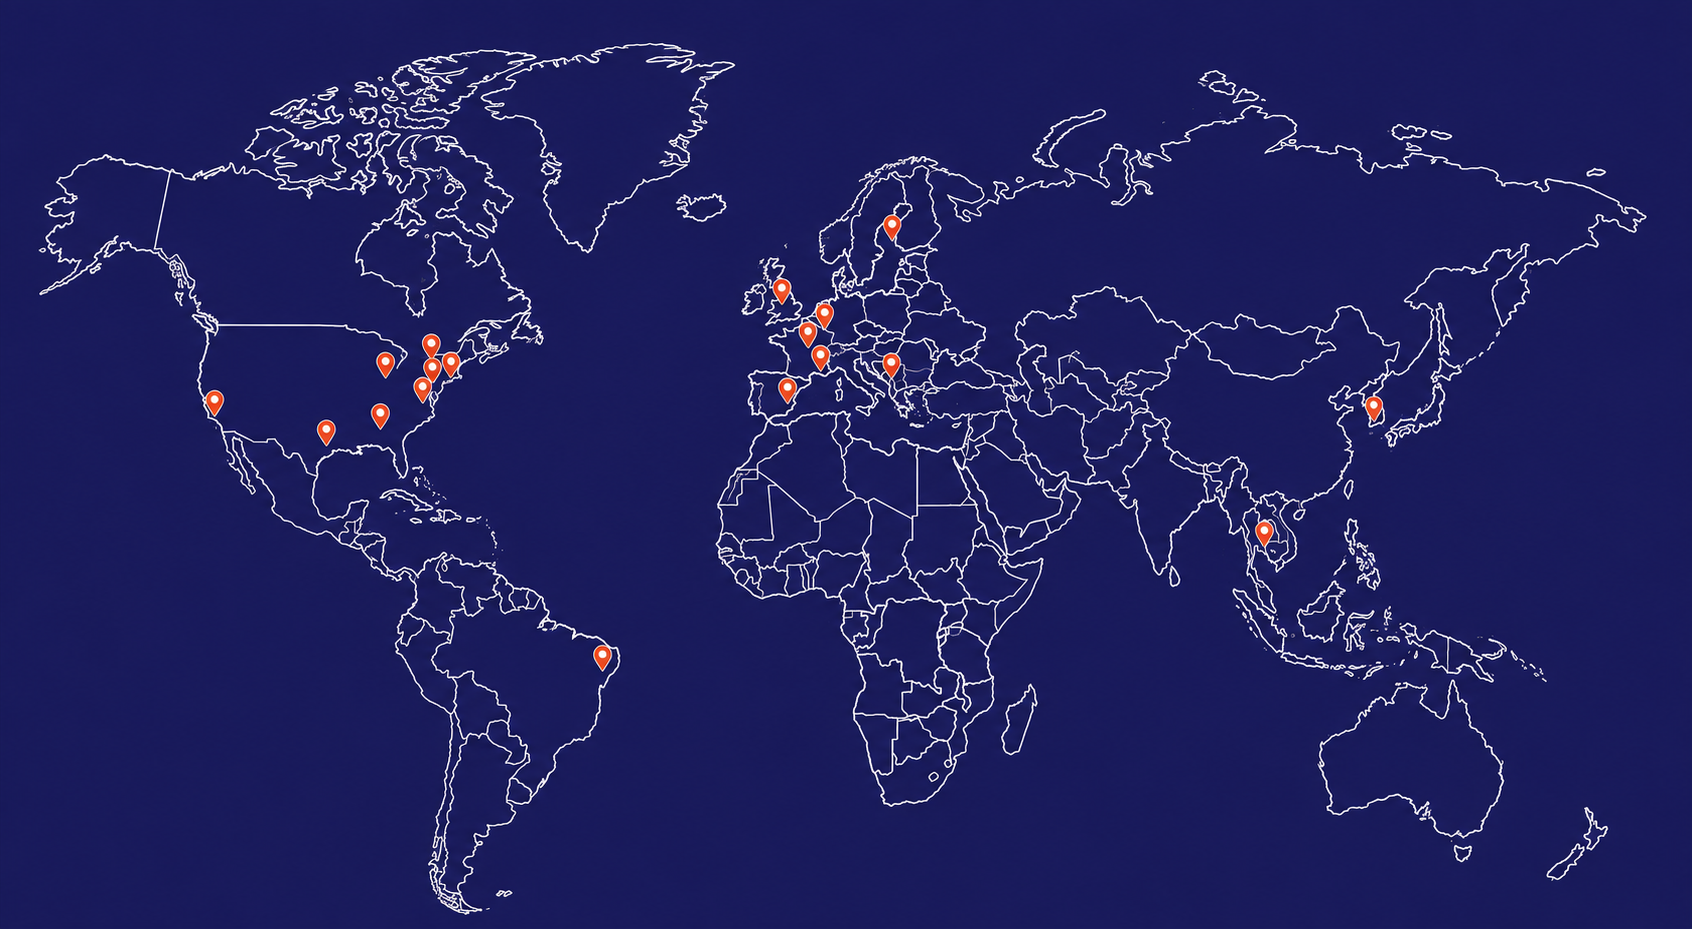
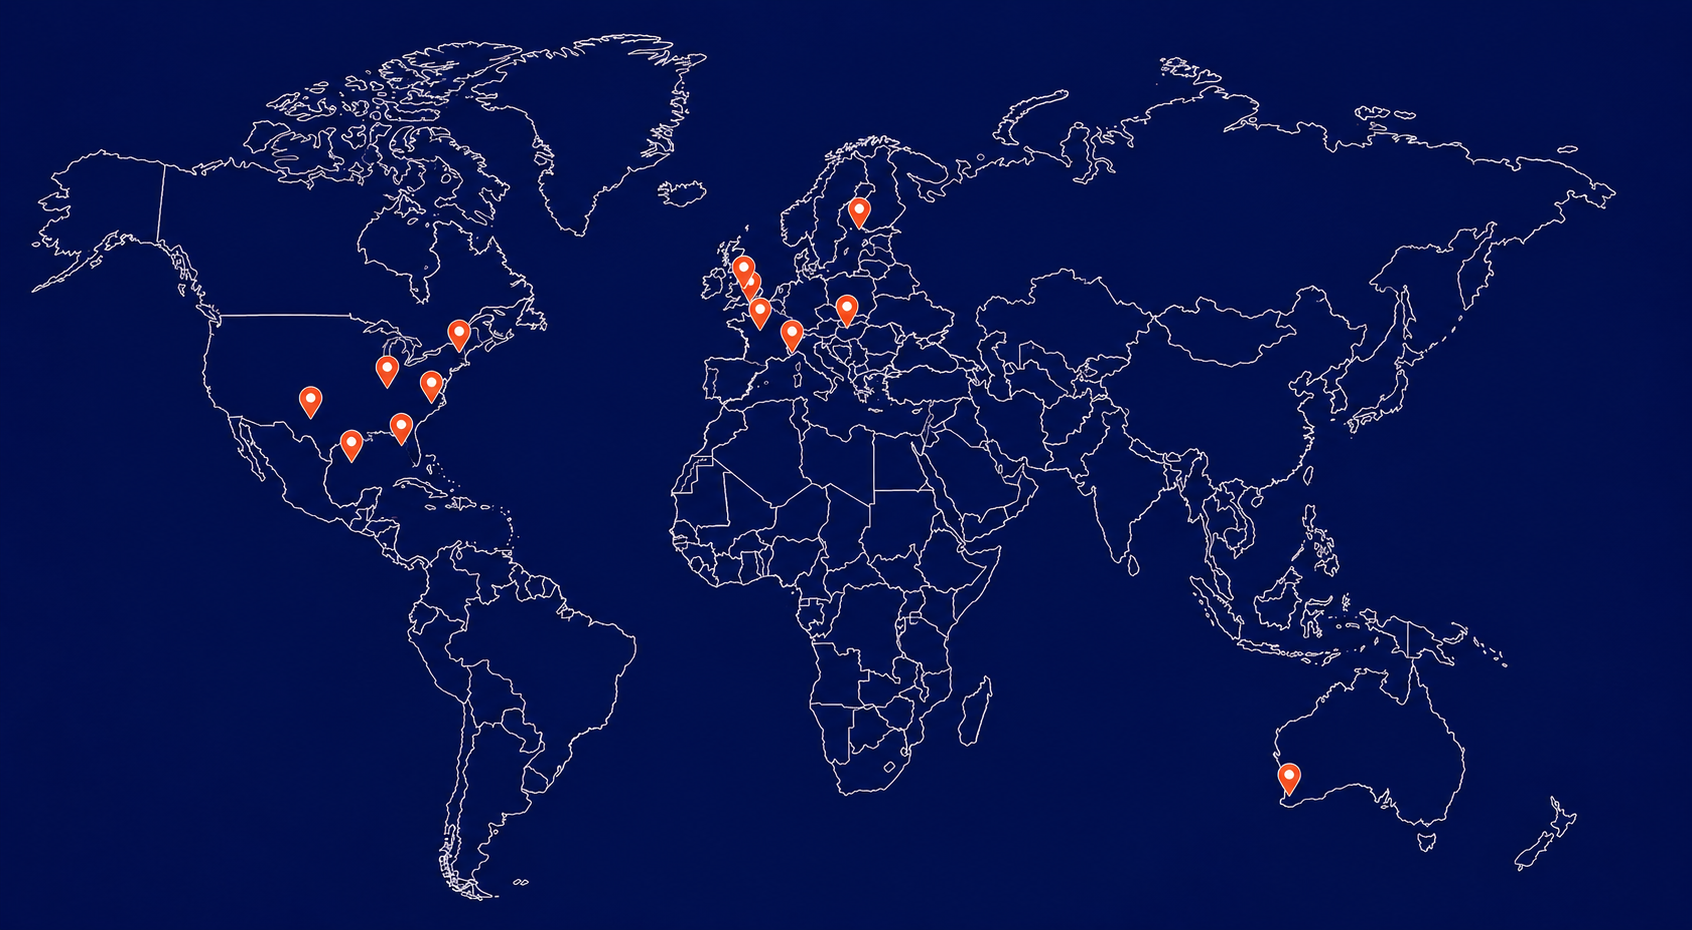
Fixed partners

diff --git a/partners.html b/partners.html
@@ -5,7 +5,7 @@
   <meta charset="UTF-8">
   <meta name="viewport" content="width=device-width, initial-scale=1.0">
   <title>Global Partner Institutions Directory | IIM Mumbai</title>
-  <meta name="description" content="Directory of 17+ international partner universities across North America, Europe, Asia, and South America collaborating with IIM Mumbai on academic mobility.">
+  <meta name="description" content="Directory of 13+ international partner universities across North America, Europe, and Australia collaborating with IIM Mumbai on academic mobility.">
   <meta name="keywords" content="IIM Mumbai Partner Universities, Global Academic Alliances, Bilateral Exchange Agreements, Triple Crown Business Schools">
   <link rel="icon" type="image/png" href="assets/favicon.png">
 
@@ -76,7 +76,7 @@
       <h1 class="page-hero-title">Partner Institutions</h1>
       <p class="page-hero-desc">
         IIM Mumbai maintains active academic partnerships and reciprocal student exchange agreements with prestigious
-        business schools and universities across Europe, North America, Asia, and Latin America.
+        business schools and universities across Europe, North America, and Australia.
       </p>
     </div>
   </section>
@@ -86,11 +86,11 @@
     <div class="container">
       <div class="partners-stats-grid">
         <div class="p-stat-box">
-          <span class="p-stat-num">17+</span>
+          <span class="p-stat-num">13+</span>
           <span class="p-stat-label">Global Partner Institutions</span>
         </div>
         <div class="p-stat-box">
-          <span class="p-stat-num">10+</span>
+          <span class="p-stat-num">7</span>
           <span class="p-stat-label">Countries Represented</span>
         </div>
         <div class="p-stat-box">
@@ -123,127 +123,13 @@
         <button class="region-pill-btn active" data-region="all">All regions</button>
         <button class="region-pill-btn" data-region="north-america">North America</button>
         <button class="region-pill-btn" data-region="europe">Europe</button>
-        <button class="region-pill-btn" data-region="asia">Asia</button>
-        <button class="region-pill-btn" data-region="south-america">South America</button>
+        <button class="region-pill-btn" data-region="australia">Australia</button>
       </div>
 
-      <!-- 4-Column Matrix Grid (Replace placeholder image src with your logo URLs) -->
+      <!-- 4-Column Matrix Grid -->
       <div class="partners-table-matrix" id="partnersMatrixGrid">
 
-        <!-- 01. University at Buffalo -->
-        <div class="matrix-cell" data-region="north-america">
-          <div class="cell-logo-wrap">
-            <img src="https://upload.wikimedia.org/wikipedia/commons/6/60/University_at_Buffalo_logo.png"
-              alt="University at Buffalo Logo" class="cell-partner-logo">
-          </div>
-          <div class="cell-country">UNITED STATES</div>
-          <div class="cell-university">University at Buffalo, New York</div>
-        </div>
-
-        <!-- 02. University of Pittsburgh -->
-        <div class="matrix-cell" data-region="north-america">
-          <div class="cell-logo-wrap">
-            <img
-              src="https://upload.wikimedia.org/wikipedia/en/thumb/f/fb/University_of_Pittsburgh_seal.svg/960px-University_of_Pittsburgh_seal.svg.png"
-              alt="University of Pittsburgh Logo" class="cell-partner-logo">
-          </div>
-          <div class="cell-country">UNITED STATES</div>
-          <div class="cell-university">University of Pittsburgh</div>
-        </div>
-
-        <!-- 03. University of Missouri -->
-        <div class="matrix-cell" data-region="north-america">
-          <div class="cell-logo-wrap">
-            <img src="https://upload.wikimedia.org/wikipedia/en/b/b8/University_of_Missouri_seal.svg"
-              alt="University of Missouri Logo" class="cell-partner-logo">
-          </div>
-          <div class="cell-country">UNITED STATES</div>
-          <div class="cell-university">University of Missouri – Columbia</div>
-        </div>
-
-        <!-- 04. University of California, Irvine -->
-        <div class="matrix-cell" data-region="north-america">
-          <div class="cell-logo-wrap">
-            <img src="https://upload.wikimedia.org/wikipedia/commons/8/8f/University_of_California%2C_Irvine_logo.svg"
-              alt="University of California, Irvine Logo" class="cell-partner-logo">
-          </div>
-          <div class="cell-country">UNITED STATES</div>
-          <div class="cell-university">University of California, Irvine</div>
-        </div>
-
-        <!-- 05. Oklahoma State University -->
-        <div class="matrix-cell" data-region="north-america">
-          <div class="cell-logo-wrap">
-            <img
-              src="https://upload.wikimedia.org/wikipedia/commons/thumb/0/01/Oklahoma_State_University_system_logo.svg/1280px-Oklahoma_State_University_system_logo.svg.png"
-              alt="Oklahoma State University Logo" class="cell-partner-logo">
-          </div>
-          <div class="cell-country">UNITED STATES</div>
-          <div class="cell-university">Oklahoma State University</div>
-        </div>
-
-        <!-- 06. Ohio University -->
-        <div class="matrix-cell" data-region="north-america">
-          <div class="cell-logo-wrap">
-            <img src="https://upload.wikimedia.org/wikipedia/commons/f/f2/Ohio_university_logo.png"
-              alt="Ohio University Logo" class="cell-partner-logo">
-          </div>
-          <div class="cell-country">UNITED STATES</div>
-          <div class="cell-university">Ohio University</div>
-        </div>
-
-        <!-- 07. West Virginia University -->
-        <div class="matrix-cell" data-region="north-america">
-          <div class="cell-logo-wrap">
-            <img
-              src="https://upload.wikimedia.org/wikipedia/commons/thumb/7/75/20150608194834%21West_Virginia_Mountaineers_logo.svg/250px-20150608194834%21West_Virginia_Mountaineers_logo.svg.png"
-              alt="West Virginia University Logo" class="cell-partner-logo">
-          </div>
-          <div class="cell-country">UNITED STATES</div>
-          <div class="cell-university">West Virginia University</div>
-        </div>
-
-        <!-- 08. University of Fortaleza -->
-        <div class="matrix-cell" data-region="south-america">
-          <div class="cell-logo-wrap">
-            <img src="https://d15ikrn2apvt7a.cloudfront.net/images/UNIFOR_Marca_RGB-01-Logo_2026-03-23-161122_yhdv.png"
-              alt="University of Fortaleza Logo" class="cell-partner-logo">
-          </div>
-          <div class="cell-country">BRAZIL</div>
-          <div class="cell-university">University of Fortaleza</div>
-        </div>
-
-        <!-- 09. Stockholm Business School -->
-        <div class="matrix-cell" data-region="europe">
-          <div class="cell-logo-wrap">
-            <img src="https://d3535lqr6sqxto.cloudfront.net/employers/ecVOKqwQTI7l54n97nlaSqG9cN3cqOPzE6WVr3bH.png"
-              alt="Stockholm Business School Logo" class="cell-partner-logo">
-          </div>
-          <div class="cell-country">SWEDEN</div>
-          <div class="cell-university">Stockholm Business School</div>
-        </div>
-
-        <!-- 10. Emlyon Business School -->
-        <div class="matrix-cell" data-region="europe">
-          <div class="cell-logo-wrap">
-            <img src="https://upload.wikimedia.org/wikipedia/commons/e/e3/LogoEmlyon.svg"
-              alt="Emlyon Business School Logo" class="cell-partner-logo">
-          </div>
-          <div class="cell-country">FRANCE</div>
-          <div class="cell-university">Emlyon Business School</div>
-        </div>
-
-        <!-- 11. Ecole Centrale de Lille -->
-        <div class="matrix-cell" data-region="europe">
-          <div class="cell-logo-wrap">
-            <img src="https://upload.wikimedia.org/wikipedia/commons/1/11/Logo_%C3%89cole_Centrale_de_Lille.png"
-              alt="Ecole Centrale de Lille Logo" class="cell-partner-logo">
-          </div>
-          <div class="cell-country">FRANCE</div>
-          <div class="cell-university">Ecole Centrale de Lille</div>
-        </div>
-
-        <!-- 12. Durham University -->
+        <!-- 01. Durham University -->
         <div class="matrix-cell" data-region="europe">
           <div class="cell-logo-wrap">
             <img
@@ -254,56 +140,131 @@
           <div class="cell-university">Durham University</div>
         </div>
 
-        <!-- 13. UC Leuven Limburg -->
+        <!-- 02. University of York -->
+        <div class="matrix-cell" data-region="europe">
+          <div class="cell-logo-wrap">
+            <img
+              src="https://features.york.ac.uk/university-of-york-it-services-jobs/assets/P0xxPpioM5/uoy-logo-stacked-shield-pms432-600x277.jpeg"
+              alt="University of York Logo" class="cell-partner-logo" onerror="this.style.display='none'">
+          </div>
+          <div class="cell-country">UNITED KINGDOM</div>
+          <div class="cell-university">University of York</div>
+        </div>
+
+        <!-- 03. Bristol University -->
+        <div class="matrix-cell" data-region="europe">
+          <div class="cell-logo-wrap">
+            <img
+              src="https://encrypted-tbn0.gstatic.com/images?q=tbn:ANd9GcQLm6Dys2do_j-DlhueQfGmF90TFLbO6_oIxPmOYYzc5Q&s=10"
+              alt="Bristol University Logo" class="cell-partner-logo" onerror="this.style.display='none'">
+          </div>
+          <div class="cell-country">UNITED KINGDOM</div>
+          <div class="cell-university">Bristol University</div>
+        </div>
+
+        <!-- 04. Oklahoma State University -->
+        <div class="matrix-cell" data-region="north-america">
+          <div class="cell-logo-wrap">
+            <img
+              src="https://upload.wikimedia.org/wikipedia/commons/thumb/0/01/Oklahoma_State_University_system_logo.svg/1280px-Oklahoma_State_University_system_logo.svg.png"
+              alt="Oklahoma State University Logo" class="cell-partner-logo">
+          </div>
+          <div class="cell-country">UNITED STATES</div>
+          <div class="cell-university">Oklahoma State University</div>
+        </div>
+
+        <!-- 05. The University of Akron -->
+        <div class="matrix-cell" data-region="north-america">
+          <div class="cell-logo-wrap">
+            <img
+              src="https://www.summit4success.com/rax/images/business-directory/UA.png"
+              alt="The University of Akron Logo" class="cell-partner-logo" onerror="this.style.display='none'">
+          </div>
+          <div class="cell-country">UNITED STATES</div>
+          <div class="cell-university">The University of Akron</div>
+        </div>
+
+        <!-- 06. University at Buffalo -->
+        <div class="matrix-cell" data-region="north-america">
+          <div class="cell-logo-wrap">
+            <img src="https://upload.wikimedia.org/wikipedia/commons/6/60/University_at_Buffalo_logo.png"
+              alt="University at Buffalo Logo" class="cell-partner-logo">
+          </div>
+          <div class="cell-country">UNITED STATES</div>
+          <div class="cell-university">University at Buffalo</div>
+        </div>
+
+        <!-- 07. University of Missouri -->
+        <div class="matrix-cell" data-region="north-america">
+          <div class="cell-logo-wrap">
+            <img src="https://upload.wikimedia.org/wikipedia/en/b/b8/University_of_Missouri_seal.svg"
+              alt="University of Missouri Logo" class="cell-partner-logo">
+          </div>
+          <div class="cell-country">UNITED STATES</div>
+          <div class="cell-university">University of Missouri</div>
+        </div>
+
+        <!-- 08. West Virginia University -->
+        <div class="matrix-cell" data-region="north-america">
+          <div class="cell-logo-wrap">
+            <img
+              src="https://upload.wikimedia.org/wikipedia/commons/thumb/7/75/20150608194834%21West_Virginia_Mountaineers_logo.svg/250px-20150608194834%21West_Virginia_Mountaineers_logo.svg.png"
+              alt="West Virginia University Logo" class="cell-partner-logo">
+          </div>
+          <div class="cell-country">UNITED STATES</div>
+          <div class="cell-university">West Virginia University</div>
+        </div>
+
+        <!-- 09. Ecole Centrale de Lille -->
+        <div class="matrix-cell" data-region="europe">
+          <div class="cell-logo-wrap">
+            <img src="https://upload.wikimedia.org/wikipedia/commons/1/11/Logo_%C3%89cole_Centrale_de_Lille.png"
+              alt="Ecole Centrale de Lille Logo" class="cell-partner-logo">
+          </div>
+          <div class="cell-country">FRANCE</div>
+          <div class="cell-university">Ecole Centrale de Lille</div>
+        </div>
+
+        <!-- 10. Stockholm Business School -->
+        <div class="matrix-cell" data-region="europe">
+          <div class="cell-logo-wrap">
+            <img src="https://d3535lqr6sqxto.cloudfront.net/employers/ecVOKqwQTI7l54n97nlaSqG9cN3cqOPzE6WVr3bH.png"
+              alt="Stockholm Business School Logo" class="cell-partner-logo">
+          </div>
+          <div class="cell-country">SWEDEN</div>
+          <div class="cell-university">Stockholm Business School</div>
+        </div>
+
+        <!-- 11. UCLL University of Applied Sciences -->
         <div class="matrix-cell" data-region="europe">
           <div class="cell-logo-wrap">
             <img src="https://www.vaia.be/files/partners-organisers/_660x252_crop_center-center_82_line/Logo-UCLL.png"
-              alt="UC Leuven Limburg Logo" class="cell-partner-logo">
+              alt="UCLL University of Applied Sciences Logo" class="cell-partner-logo">
+          </div>
+          <div class="cell-country">BELGIUM</div>
+          <div class="cell-university">UCLL University of Applied Sciences</div>
+        </div>
+
+        <!-- 12. University of Western Australia -->
+        <div class="matrix-cell" data-region="australia">
+          <div class="cell-logo-wrap">
+            <img
+              src="https://static.cdnlogo.com/logos/u/82/uwa-university-perth.svg"
+              alt="University of Western Australia Logo" class="cell-partner-logo" onerror="this.style.display='none'">
+          </div>
+          <div class="cell-country">AUSTRALIA</div>
+          <div class="cell-university">University of Western Australia</div>
+        </div>
+
+        <!-- 13. Berlin School of Economics and Law -->
+        <div class="matrix-cell" data-region="europe">
+          <div class="cell-logo-wrap">
+            <img
+              src="https://study-eu.s3.eu-west-1.amazonaws.com/uploads/university/berlin-school-of-economics-and-law-285-logo.png"
+              alt="Berlin School of Economics and Law Logo" class="cell-partner-logo" onerror="this.style.display='none'">
           </div>
           <div class="cell-country">GERMANY</div>
-          <div class="cell-university">UC Leuven Limburg</div>
-        </div>
-
-        <!-- 14. IQS School of Management -->
-        <div class="matrix-cell" data-region="europe">
-          <div class="cell-logo-wrap">
-            <img src="https://upload.wikimedia.org/wikipedia/commons/thumb/9/9a/Logo_IQS.svg/3840px-Logo_IQS.svg.png"
-              alt="IQS School of Management Logo" class="cell-partner-logo">
-          </div>
-          <div class="cell-country">SPAIN</div>
-          <div class="cell-university">IQS School of Management</div>
-        </div>
-
-        <!-- 15. University of Zagreb -->
-        <div class="matrix-cell" data-region="europe">
-          <div class="cell-logo-wrap">
-            <img src="https://upload.wikimedia.org/wikipedia/commons/8/81/UniZg.png" alt="University of Zagreb Logo"
-              class="cell-partner-logo">
-          </div>
-          <div class="cell-country">CROATIA</div>
-          <div class="cell-university">University of Zagreb</div>
-        </div>
-
-        <!-- 16. Woosong University -->
-        <div class="matrix-cell" data-region="asia">
-          <div class="cell-logo-wrap">
-            <img
-              src="https://assets.studies-overseas.com/Woosong_University_Daejeon_Desktop_U_Niversity_Logo_09c1b83f38.webp"
-              alt="Woosong University Logo" class="cell-partner-logo">
-          </div>
-          <div class="cell-country">SOUTH KOREA</div>
-          <div class="cell-university">Woosong University</div>
-        </div>
-
-        <!-- 17. Asian Institute of Technology -->
-        <div class="matrix-cell" data-region="asia">
-          <div class="cell-logo-wrap">
-            <img
-              src="https://encrypted-tbn0.gstatic.com/images?q=tbn:ANd9GcSPZyFNDSSizyQ6hAazSJt1wX48pjZ6Bfg-QwCrnOmtRWu8DtQjK8j2fvZF&s=10"
-              alt="Asian Institute of Technology Logo" class="cell-partner-logo">
-          </div>
-          <div class="cell-country">THAILAND</div>
-          <div class="cell-university">Asian Institute of Technology</div>
+          <div class="cell-university">Berlin School of Economics and Law</div>
         </div>
 
         <!-- Empty fill block for remaining columns -->

diff --git a/index.html b/index.html
@@ -96,8 +96,8 @@
     <div class="container">
       <div class="stats-grid">
         <div class="stat-card">
-          <div class="stat-value">17+</div>
-          <div class="stat-label">Partner universities, 4 continents</div>
+          <div class="stat-value">13+</div>
+          <div class="stat-label">Partner universities, 3 continents</div>
         </div>
         <div class="stat-divider"></div>
         <div class="stat-card">
